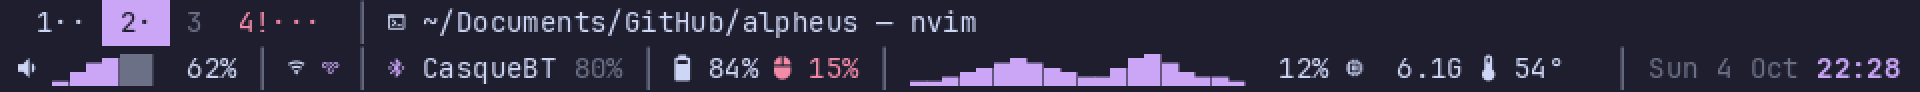
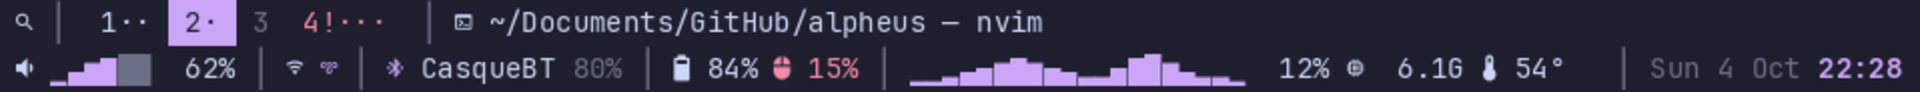
docs(launcher): final review round — measure c256d33 vs HEAD, scrims in the spec, harness NixOS note
I1: measured c256d33 against this delivery back to back in release
(headless sway, same machine, two runs each). The ~0.5-0.8 MB startup
growth the final review flagged is real, not noise: it is present even
in the plainest config (bar alone, no launcher in `modules`), and comes
mostly from a bigger statically-linked binary (nucleo-matcher, xkeysym,
xkbcommon's Rust bindings: +528 KiB on disk) rather than from
libxkbcommon.so itself, whose own mapping is only ~60 KB of it (checked
with ldd and /proc/<pid>/smaps). Corrected the README's "Launcher,
closed" row and CLAUDE.md's "startup noise" sentence with this finding,
and brought the open-cost and 50-cycles figures in both places to one
freshly measured, consistent range (M9).

M7: spec now describes the click-outside scrims (Overlay layer, created
before the box, exclusive_zone(0), the wp_viewporter dependency and the
no-viewporter fallback). M8: re-rendered docs/images/bar.png with the
launcher module first, same built-in palette and fictional data as
before; launcher.png untouched per Mae's own call. M4 (slice 1, doc
only): USAGE and the spec now say a request in flight during a bar
restart exits 2, and that --dmenu has no timeout before the daemon
accepts. M10: tests/common/mod.rs documents that the headless harness
assumes NixOS (coreutils_dir's shared store path).

CLAUDE.md's launcher status bullet also records the whole-branch review,
the nixos-config switch, Mae's daily use since 2026-10-05, the bar fix
[…]

diff --git a/crates/alpheus-demon/tests/common/mod.rs b/crates/alpheus-demon/tests/common/mod.rs
@@ -3,6 +3,18 @@
 //! launched with its log. Nothing touches Mae's session: a temporary run
 //! directory, a cleared environment, neither WAYLAND_DISPLAY nor the
 //! session's signature.
+//!
+//! **Assumes NixOS.** `coreutils_dir()` (below) needs `cat` — and with it
+//! `sleep`/`mv`, the fake programs' other tools — to resolve, through
+//! `$PATH` and symlinks, into one shared coreutils derivation directory
+//! that also carries nothing session-specific (no `wm-set`, no
+//! `systemd-run`): true of any Nix-managed machine (`cat`, `sleep`, `mv`
+//! all come from the same `coreutils` package, one `/nix/store/…/bin`), not
+//! guaranteed on a distribution that splits these tools across separate
+//! packages or directories (e.g. a minimal busybox `/bin`). This harness
+//! has only ever run on Mae's NixOS workstation; a non-NixOS contributor
+//! hitting `coreutils_dir`'s assertions should read them as "this harness
+//! doesn't know your distribution's layout yet", not as a daemon bug.
 #![allow(dead_code)]
 
 use alpheus_commun::launcher_ipc::{Reply, Request, socket_path};

diff --git a/crates/alpheus-launch/src/lib.rs b/crates/alpheus-launch/src/lib.rs
@@ -41,7 +41,11 @@ Usage: alpheus-launch [--toggle | --close | --dmenu [--prompt TEXT] | --help]
   -h, --help              show this help
 
 Exit codes: 0 done or chosen, 1 menu cancelled, 2 error (another menu open,
-bad usage, no answer), 3 alpheus-demon not running (launcher unreachable).
+bad usage, no answer, the bar restarting mid-request), 3 alpheus-demon not
+running (launcher unreachable).
+
+--dmenu waits for a choice with no timeout of its own: as long as the
+person takes to pick a line, however long that is.
 ";
 
 #[derive(Debug, Clone, PartialEq, Eq)]

diff --git a/CLAUDE.md b/CLAUDE.md
@@ -46,25 +46,38 @@ breakdown), then the spec of the sub-project currently in progress in
 - **Launcher delivery 1** (the core; spec
   [`docs/specs/2026-10-05-alpheus-launcher-design.md`](docs/specs/2026-10-05-alpheus-launcher-design.md),
   plan [`docs/plans/2026-10-05-alpheus-launcher-plan-1.md`](docs/plans/2026-10-05-alpheus-launcher-plan-1.md))
-  **implemented**: a centred Overlay box inside the daemon (apps, windows,
-  `$PATH` commands, script mode), `alpheus-launch` (toggle, close,
-  `--dmenu` with fuzzel's exit codes, plus 3 = daemon unreachable, the
-  only code that makes nixos-config fall back to fuzzel) on an
-  owner-only socket, nucleo
+  **implemented and reviewed** (per-task reviews plus a final whole-branch
+  review in three slices): a centred Overlay box inside the daemon (apps,
+  windows, `$PATH` commands, script mode), click-outside scrims on the
+  box's own Overlay layer (not Top — Hyprland draws Top under a
+  fullscreen window, so a scrim there would never catch a click while Mae
+  is in a game), `alpheus-launch` (toggle, close, `--dmenu` with fuzzel's
+  exit codes, plus 3 = daemon unreachable, the only code that makes
+  nixos-config fall back to fuzzel) on an owner-only socket, nucleo
   ranking plus frecency, `.desktop` files and `$PATH` rescanned on a
   short-lived thread at each open, launches in a `systemd-run --user
   --scope` (detached fallback), keyboard bound only while open
-  (libxkbcommon now linked). Measured in **release** (headless sway, 300
-  synthetic apps, several runs): open latency median 1963–2020 µs
-  (max 4252–4477 µs), open +1929–1966 KB PSS over closed, 50 cycles
-  +104–304 KB across runs, 0 wake-ups in 5 s at rest after use, plan 1
-  modules + launcher: 6738–6912 KB, close to plan 1 alone (6464–6738 KB
-  across the same runs) — nothing is resident while the launcher is
-  closed but the listening socket fd, so this gap is startup noise, not a
-  real cost (8466–8562 KB with every module). A 100,000-line dmenu peaks
-  at +6216–6316 KB over closed, back down to +308–400 KB one second after
-  a cancel. nixos-config switch (task 15) and Mae's real trial (task 16)
-  pending.
+  (libxkbcommon now linked). A bar fix landed alongside it: with no
+  active window, the right-hand modules now stay right instead of
+  collapsing left (611f103). Measured in **release** (headless sway, 300
+  synthetic apps, several runs): open latency median 2.7–3.0 ms
+  (max 4.6–5.3 ms), open +1.8–1.9 MB PSS over closed, 50 cycles
+  +0.1–0.3 MB, 0 wake-ups in 5 s at rest after use. A 100,000-line dmenu
+  peaks at +6.2–6.3 MB over closed, back down to +0.3 MB one second after
+  a cancel. The daemon's own baseline also grew +0.3–0.7 MB over the
+  delivery before this one (plan 1 alone: +524–540 KB; every module:
+  +552–724 KB; binary +528 KiB, 5.06 → 5.58 MiB), measured `c256d33` vs
+  this delivery back to back in release: a bigger statically-linked
+  binary (`nucleo-matcher`, `xkeysym`, `xkbcommon`'s Rust bindings) plus
+  `libxkbcommon.so` itself — confirmed via `ldd` and `/proc/<pid>/smaps`
+  that only ≈ 60 KB of that growth is the library's own mapping, the rest
+  the larger binary. A real one-time cost of the feature, present even
+  with `launcher` left out of `modules`, not "startup noise". nixos-config
+  switch done (`lanceur-alpheus` merged into Mae's nixos-config); Mae
+  using the alpheus launcher daily since 2026-10-05 (her own feedback
+  folded in: held terminal on Enter, detached on Ctrl+Enter, apps before
+  windows on an empty query); merge of `feat/launcher-1` into alpheus
+  `main` pending her go.
 - Next, in order: bar step 4 (tray and menus), step 5 (media,
   notifications), the **OSD** (replaces swayosd, ≈ 44 MB measured), then
   notification bubbles (replaces mako); the wallpaper (swaybg) is optional.

diff --git a/README.md b/README.md
@@ -36,10 +36,12 @@ outputs). alpheus figures are release builds. Updated with every delivery.
 | Bar daemon, live on the author's laptop (3 outputs) | ≈ 11.3 MB | real session, all modules |
 | `pw-dump` child (sound source) | ≈ 2.5 MB | silent at rest |
 | **alpheus resident total, live** | **≈ 14 MB** | bar + sound source |
-| Launcher, closed (socket only, nothing else resident) | +0 MB | one listening fd; no thread, timer or keyboard exists while closed |
-| Launcher, open (typed query, keyboard bound) | +1.9–2.1 MB over closed | headless sway, 300 synthetic apps, `tests/memory.rs` |
-| Launcher, open latency | ≈ 2.0 ms median (max 4.3–4.5 ms) | request accepted → first frame committed, 20 opens |
-| Launcher, 100,000-line dmenu | +6.1–6.3 MB open, back to +0.3–0.4 MB 1 s after cancel | worst-case dmenu size; memory released promptly on cancel |
+| Launcher feature, linked in but never opened (no `launcher` in `modules` even) | +0.3–0.7 MB vs. the delivery before this one | one-time cost of a bigger binary (`nucleo-matcher`, `xkeysym`, `xkbcommon`'s Rust bindings) plus `libxkbcommon.so` itself (≈ 60 KB of it, `/proc/<pid>/smaps`); measured `c256d33` vs this delivery, release, back to back — a real cost, not "noise" |
+| Launcher, closed (socket only, nothing else resident) on top of that | +0 MB | no thread, timer or keyboard exists while closed |
+| Launcher, open (typed query, keyboard bound) | +1.8–1.9 MB over closed | headless sway, 300 synthetic apps, `tests/memory.rs` |
+| Launcher, open latency | ≈ 2.7–3.0 ms median (max 4.6–5.3 ms) | request accepted → first frame committed, 20 opens |
+| Launcher, 50 open/close cycles | +0.1–0.3 MB vs. the post-warm-up baseline | 17 of them closed by a typed Escape, the rest by toggle |
+| Launcher, 100,000-line dmenu | +6.2–6.3 MB open, back to +0.3 MB 1 s after cancel | worst-case dmenu size; memory released promptly on cancel |
 | Control center (TUI) while open | ≈ 2 MB + its terminal | 0 at rest (not resident); the terminal dominates: alacritty ≈ 93 MB |
 | Borrowed for now: mako / swaybg / swayosd | 6.6 / 1.4 / 49.5 MB | to be replaced by alpheus toasts and OSD |
 
@@ -147,7 +149,8 @@ A line of monospace characters on a solid background, modules separated by
 
 ![The alpheus bar, sample data, real font, built-in Catppuccin Mocha palette (zoomed ×2, split in two halves)](docs/images/bar.png)
 
-Shipped: **workspaces** (one dot per window, empty workspace dimmed, urgent
+Shipped: **launcher** (an icon that opens it, first module by default),
+**workspaces** (one dot per window, empty workspace dimmed, urgent
 in red, click to go there, wheel to move to the next one), **active
 window** (app icon and title), **volume** (gauge, wheel ±5 %, right click
 mutes), **network** (link icon, VPN count), **Bluetooth** (device and its
